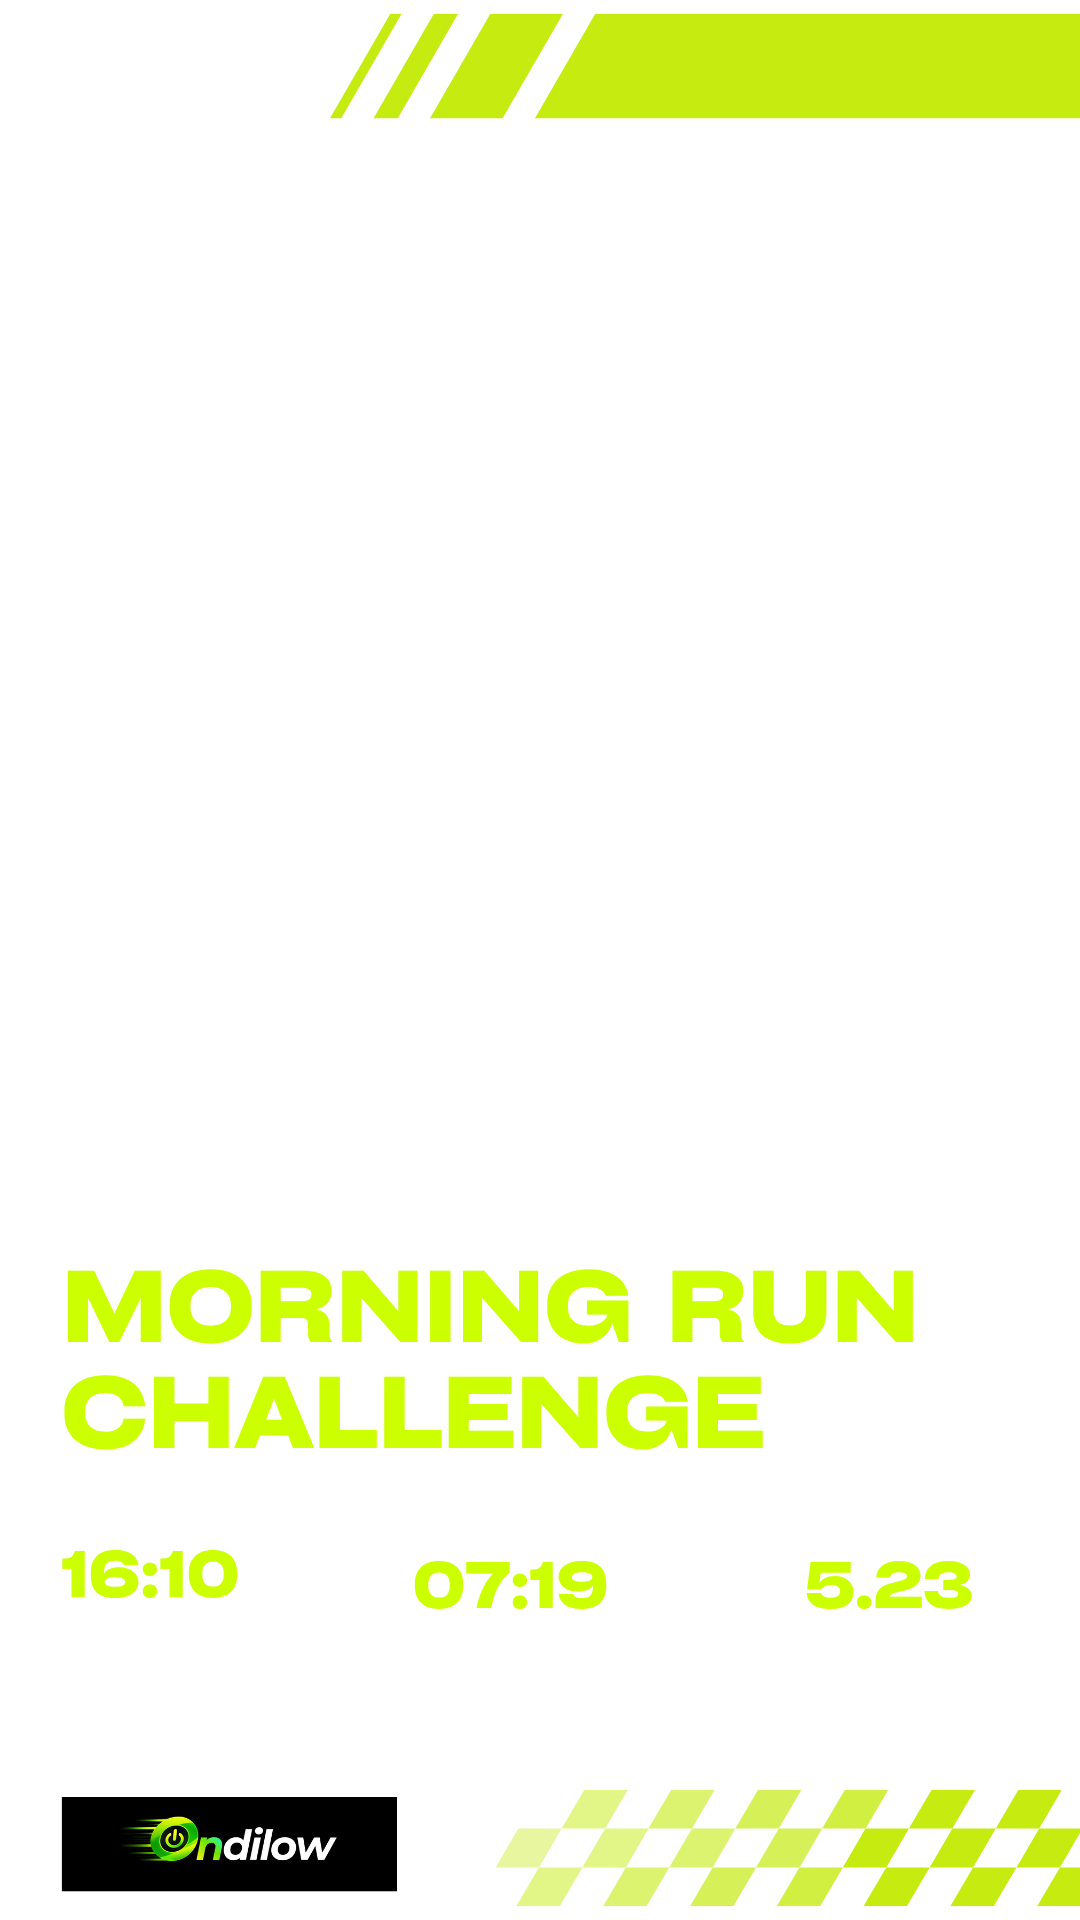
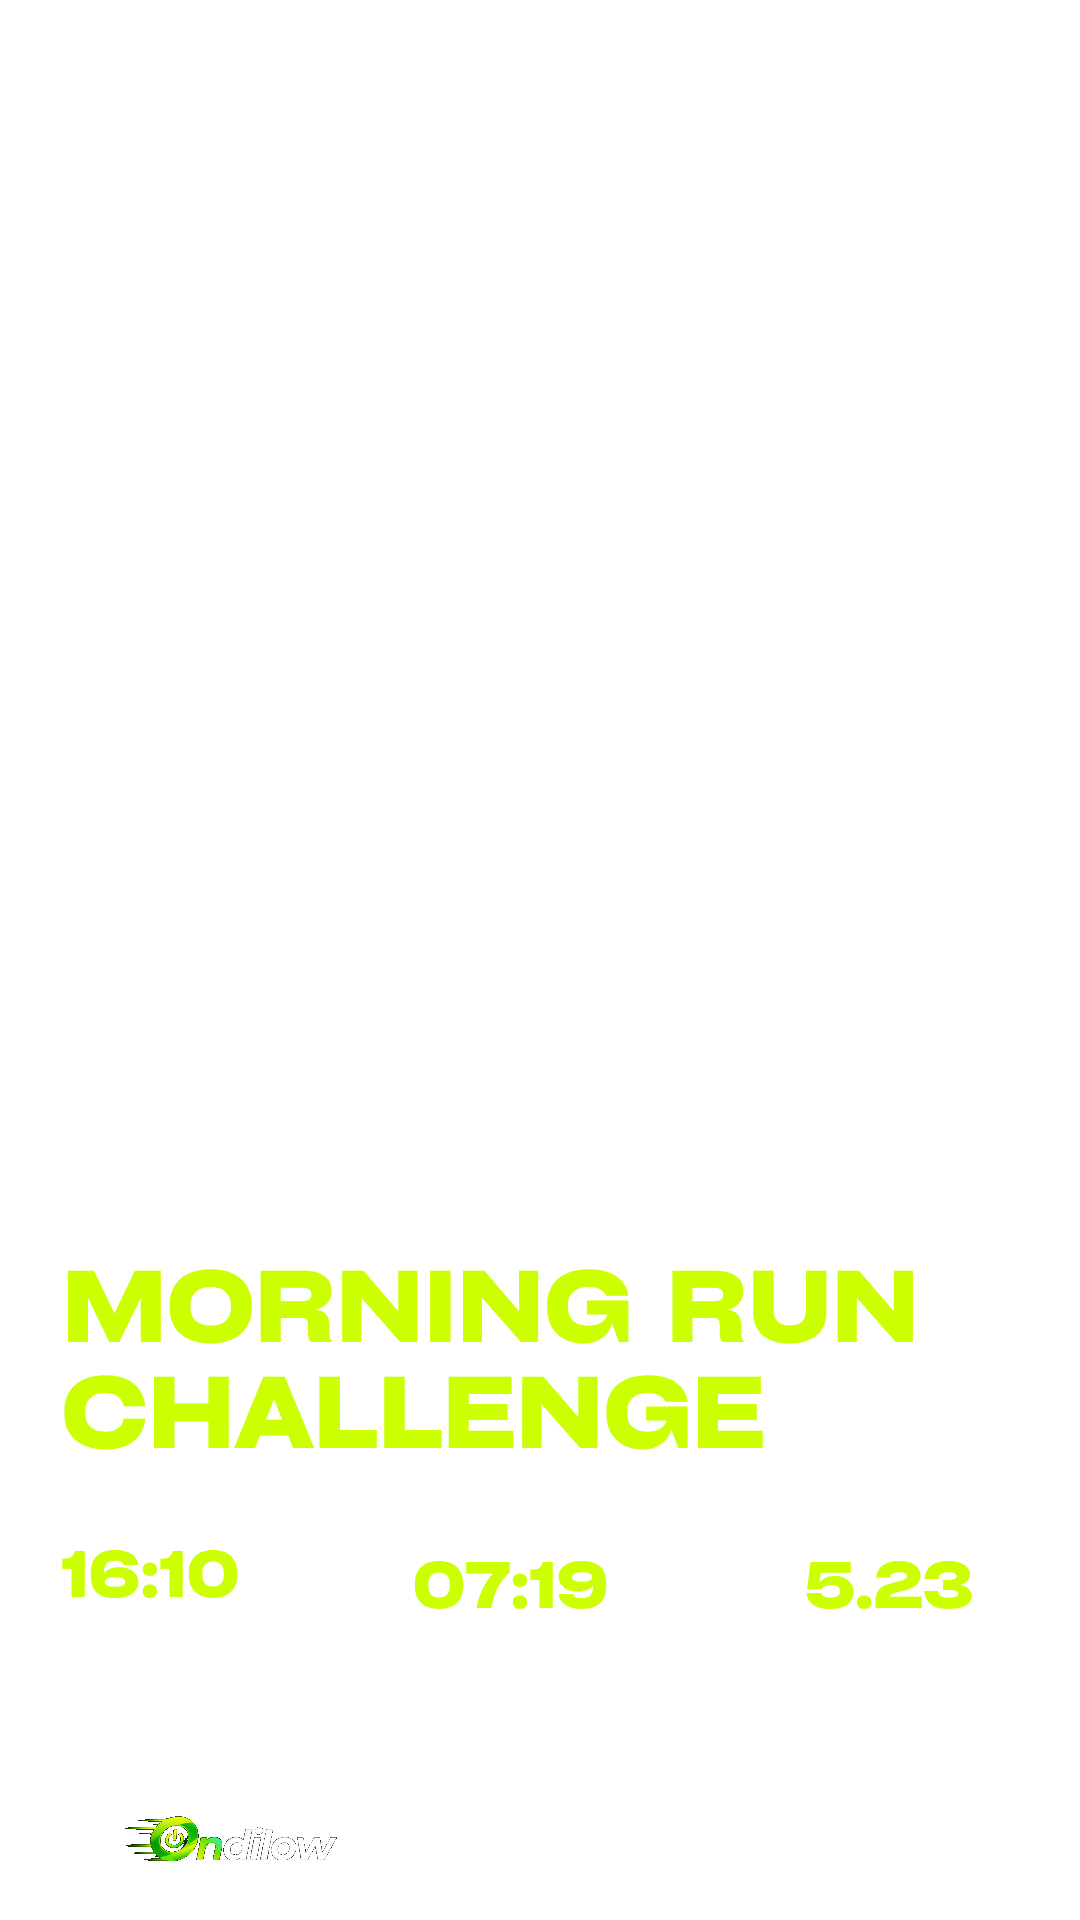
fix(ondilow): ajustes finos no gerador de Stories (Desafio + Stats)
Modelo "Desafio": remove os filetes decorativos do topo e da base
(pura decoracao, sem dado dinamico) e torna transparente o fundo
preto do badge da logo, preservando a logo em si (processamento
direto no PNG via chroma key, sem tocar nos pixels nao-pretos).

Modelo "Stats a direita": troca a fonte de Caladea/Cambria (serifada,
nao batia com a arte) para Inter. O usuario confirmou que a fonte
real usada no Canva ali e "Canva Sans", proprietaria da Canva e sem
licenca de redistribuicao web -- Inter e a aproximacao livre mais
proxima (grotesque geometrica), auto-hospedada como fonte variavel
(unico arquivo cobrindo os pesos 700-900).

Changed region(s): [[0.3056, 0.0, 1.0, 0.0625], [0.4583, 0.9062, 1.0, 1.0], [0.0306, 0.9375, 0.3667, 1.0]]

diff --git a/Ondilow/apps/web/lib/story/engine.ts b/Ondilow/apps/web/lib/story/engine.ts
@@ -18,20 +18,23 @@ let fontsPromise: Promise<void> | null = null;
 /**
  * Carrega as fontes usadas no gerador de Stories, auto-hospedadas via
  * FontFace API. Montserrat (700/800/900) é a fonte dos títulos e valores,
- * igual ao que o usuário usou no Canva. Caladea substitui a Cambria (fonte
- * da Microsoft, sem licença de redistribuição web) — métrica compatível,
- * então o texto ocupa exatamente o mesmo espaço. Poppins fica só pra outras
- * partes do app (dashboard, etc.), não é usada aqui. Idempotente.
+ * igual ao que o usuário usou no Canva. O modelo "Stats à direita" usa Inter
+ * (fonte variável, único arquivo cobrindo os pesos 700–900) — o usuário
+ * confirmou que o Canva usou "Canva Sans" nesse modelo, que é proprietária da
+ * Canva e não pode ser redistribuída; Inter é a aproximação livre mais
+ * próxima (grotesque geométrica, mesma família de peso usada por várias
+ * ferramentas de design). Poppins fica só pra outras partes do app
+ * (dashboard, etc.), não é usada aqui. Idempotente.
  */
 export function loadStoryFonts(): Promise<void> {
   if (fontsPromise) return fontsPromise;
   fontsPromise = (async () => {
     if (typeof document === "undefined" || typeof FontFace === "undefined") return;
-    const specs: [string, string, string][] = [
+    const specs: [string, string, string, string?][] = [
       ["Montserrat", "700", "/fonts/Montserrat-700.woff2"],
       ["Montserrat", "800", "/fonts/Montserrat-800.woff2"],
       ["Montserrat", "900", "/fonts/Montserrat-900.woff2"],
-      ["Caladea", "700", "/fonts/Caladea-700.woff2"],
+      ["Inter", "700 900", "/fonts/Inter-Variable.woff2"],
     ];
     await Promise.all(
       specs.map(async ([family, weight, url]) => {

diff --git a/Ondilow/apps/web/lib/story/layouts/statsDireita.ts b/Ondilow/apps/web/lib/story/layouts/statsDireita.ts
@@ -14,8 +14,9 @@ const HARD_SHADOW = {
 
 /**
  * Modelo "17" do usuário: blocos rótulo+valor alinhados à direita no topo, rota
- * na base, logo centralizada. Cambria no Canva — usamos Caladea (substituta
- * métrica livre) auto-hospedada.
+ * na base, logo centralizada. "Canva Sans" no Canva (fonte proprietária, sem
+ * licença de redistribuição web) — usamos Inter, a aproximação livre mais
+ * próxima, auto-hospedada.
  */
 export const statsDireita: StoryLayout = {
   id: "stats-direita",
@@ -50,15 +51,16 @@ export const statsDireita: StoryLayout = {
     R.blocks.forEach((block, i) => {
       const metric = metricByKey(data.metrics, KEYS[i]);
       if (!metric) return;
-      const serif = (s: number) => `700 ${s}px 'Caladea', 'Cambria', serif`;
+      const labelFont = (s: number) => `700 ${s}px 'Inter', sans-serif`;
+      const valueFont = (s: number) => `800 ${s}px 'Inter', sans-serif`;
       const value = metric.value + (metric.unit ? ` ${metric.unit}` : "");
       textWithShadow(ctx, metric.label, R.right, block.label.y, {
-        font: serif(fitFontSize(ctx, metric.label, serif, R.maxW, block.label.size, 48)),
+        font: labelFont(fitFontSize(ctx, metric.label, labelFont, R.maxW, block.label.size, 48)),
         align: "right",
         ...HARD_SHADOW,
       });
       textWithShadow(ctx, value, R.right, block.value.y, {
-        font: serif(fitFontSize(ctx, value, serif, R.maxW, block.value.size, 70)),
+        font: valueFont(fitFontSize(ctx, value, valueFont, R.maxW, block.value.size, 70)),
         align: "right",
         ...HARD_SHADOW,
       });

diff --git a/Ondilow/apps/web/lib/story/regions.ts b/Ondilow/apps/web/lib/story/regions.ts
@@ -5,7 +5,9 @@
  *
  * Os tamanhos de fonte não são chute: cada `size` foi derivado da altura real
  * do glifo na arte dividida pela razão altura/em da fonte carregada
- * (Montserrat ~0.70 para dígitos e ~0.72 para caixa alta; Caladea ~0.67/0.69).
+ * (Montserrat ~0.70 para dígitos e ~0.72 para caixa alta). O bloco
+ * `STATS_DIREITA` usa Inter (ver `layouts/statsDireita.ts`) — a fonte real do
+ * Canva ali é "Canva Sans", proprietária e não redistribuível.
  *
  * `logoHiRes` é onde a logo de alta resolução (`/story-art/logo.png`, 1366x768,
  * o arquivo original do usuário) é desenhada por cima da logo embutida na arte,
